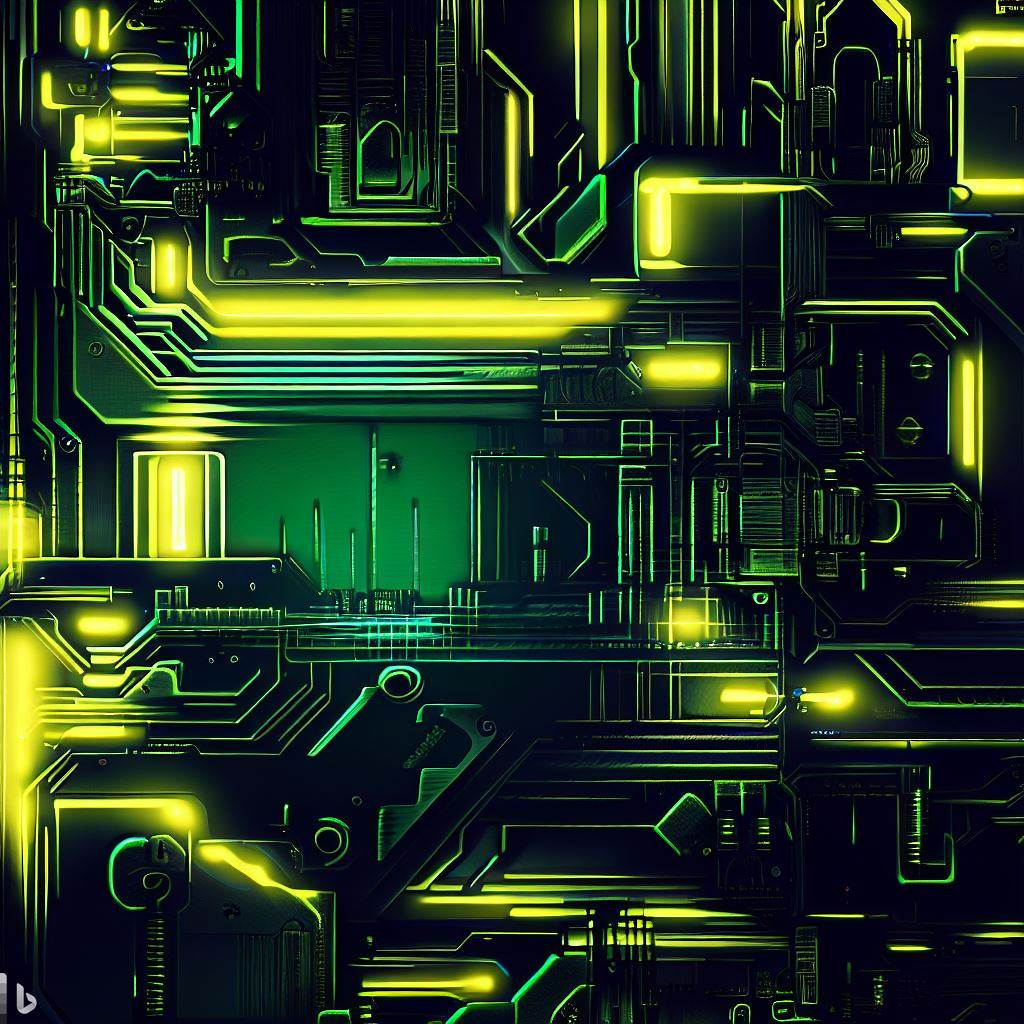
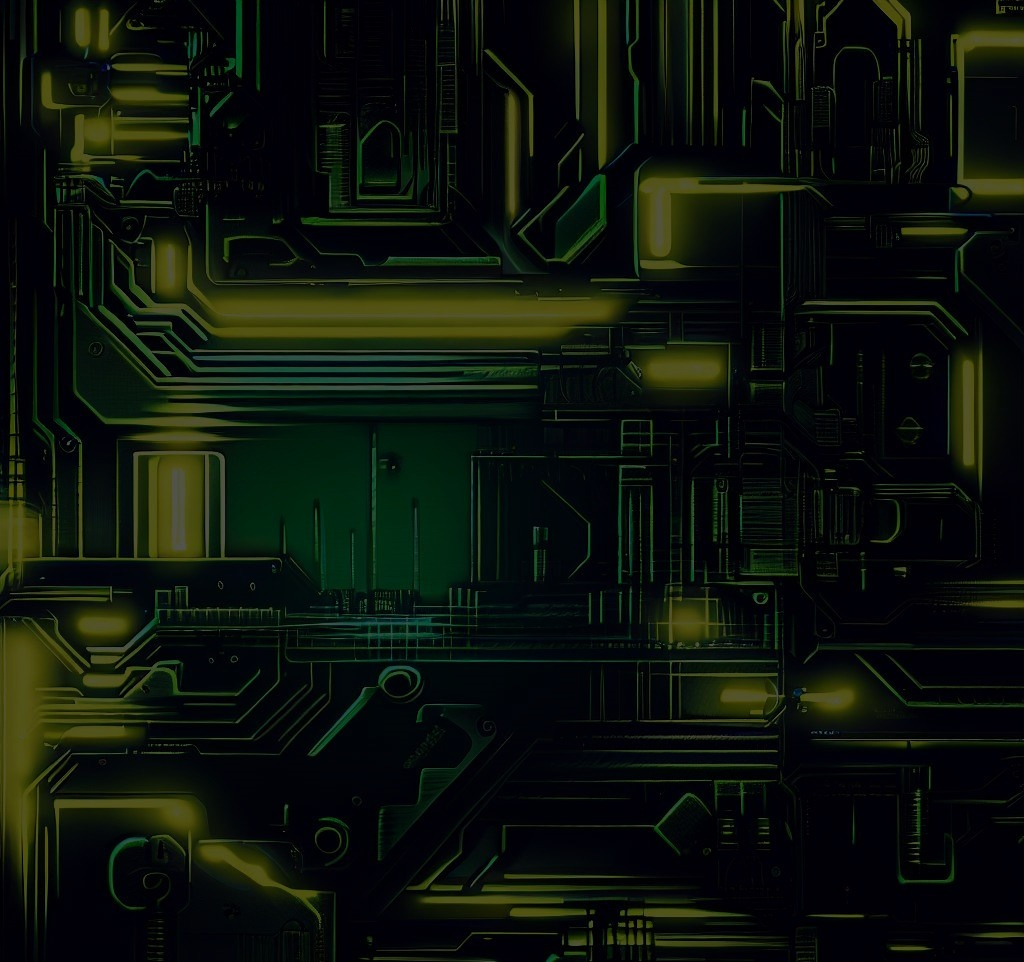
Add background

diff --git a/src/theme/app/_index.scss b/src/theme/app/_index.scss
@@ -4,56 +4,9 @@
 @import url('https://discordstyles.github.io/RadialStatus/dist/RadialStatus.css');
 @import url('https://discordstyles.github.io/HorizontalServerList/dist/HorizontalServerList.css');
 
-// Better Windows Title bar
-.wordmarkWindows-2dq6rw > svg {
-    width: 19px;
+:root {
+  --background: url(https://raw.githubusercontent.com/Riddim-GLiTCH/New-Age/main/src/assets/default-background.jpg) !important;
 }
-.wordmarkWindows-2dq6rw path:not(:first-child) {
-    display: none;
-}
-.wordmarkWindows-2dq6rw path:first-child {
-    d: path("M23.0212 1.67671C21.3107 0.879656 19.5079 0.318797 17.6584 0C17.4062 0.461742 17.1749 0.934541 16.9708 1.4184C15.003 1.12145 12.9974 1.12145 11.0283 1.4184C10.819 0.934541 10.589 0.461744 10.3368 0.00546311C8.48074 0.324393 6.67795 0.885118 4.96746 1.68231C1.56727 6.77853 0.649666 11.7538 1.11108 16.652C3.10102 18.1418 5.3262 19.2743 7.69177 20C8.22338 19.2743 8.69519 18.4993 9.09812 17.691C8.32996 17.3997 7.58522 17.0424 6.87684 16.6135C7.06531 16.4762 7.24726 16.3387 7.42403 16.1847C11.5911 18.1749 16.408 18.1749 20.5763 16.1847C20.7531 16.3332 20.9351 16.4762 21.1171 16.6135C20.41 17.0369 19.6639 17.3997 18.897 17.691C19.3052 18.4993 19.7718 19.2689 20.3021 19.9945C22.6677 19.2689 24.8929 18.1364 26.8828 16.6466H26.8893C27.43 10.9731 25.9665 6.04728 23.0212 1.67671ZM9.68041 13.6383C8.39754 13.6383 7.34085 12.4453 7.34085 10.994C7.34085 9.54272 8.37155 8.34973 9.68041 8.34973C10.9893 8.34973 12.0395 9.54272 12.0187 10.994C12.0187 12.4453 10.9828 13.6383 9.68041 13.6383ZM18.3161 13.6383C17.0332 13.6383 15.9765 12.4453 15.9765 10.994C15.9765 9.54272 17.0124 8.34973 18.3161 8.34973C19.6184 8.34973 20.6751 9.54272 20.6543 10.994C20.6543 12.4453 19.6184 13.6383 18.3161 13.6383Z") !important;
-    scale: 2;
-}
-.wordmarkWindows-2dq6rw svg > g {
-    transform: translateY(-75%);
-}
-.wordmarkWindows-2dq6rw {
-    display: flex;
-    gap: 6px;
-    align-items: center;
-    order: 1;
-    margin-right: auto;
-    color: var(--header-primary);
-}
-.wordmarkWindows-2dq6rw::after {
-    content: "New Age";
-    display: flex;
-    width: fit-content;
-    font-size: 12px;
-    font-family: var(--font-display);
-    font-weight: 700;
-}
-html:has(#activeColorway:not(:empty)) .wordmarkWindows-2dq6rw::after {
-    content: "Colorways";
-    background-color: var(--background-primary);
-    padding: 2px 8px;
-    border-radius: 16px;
-}
-.typeWindows-2-g3UY {
-    margin-top: 0;
-    padding: 4px;
-    height: fit-content;
-}
-.typeWindows-2-g3UY > * {
-    position: relative;
-}
-.winButton-3UMjdg {
-    top: 0 !important;
-    margin: -4px 0;
-    height: 31px;
-    width: 46px;
-}
-.winButtonClose-3Q8ZH5 {
-    margin-right: -4px;
+.chatContent-3KubbW {
+    background: var(--background) center, no-repeat;
 }
